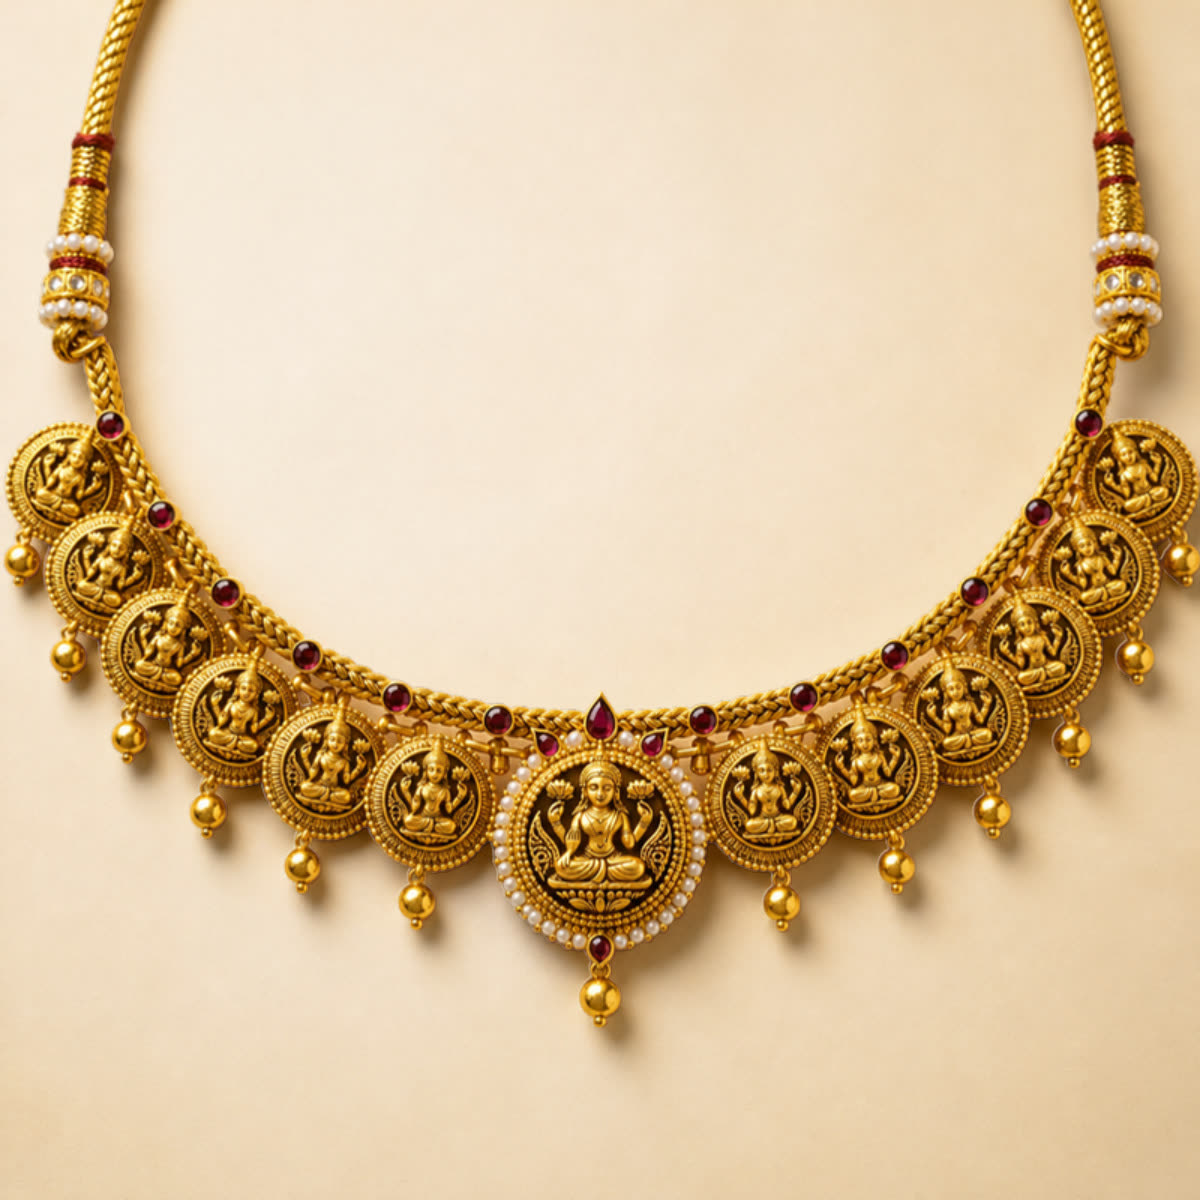
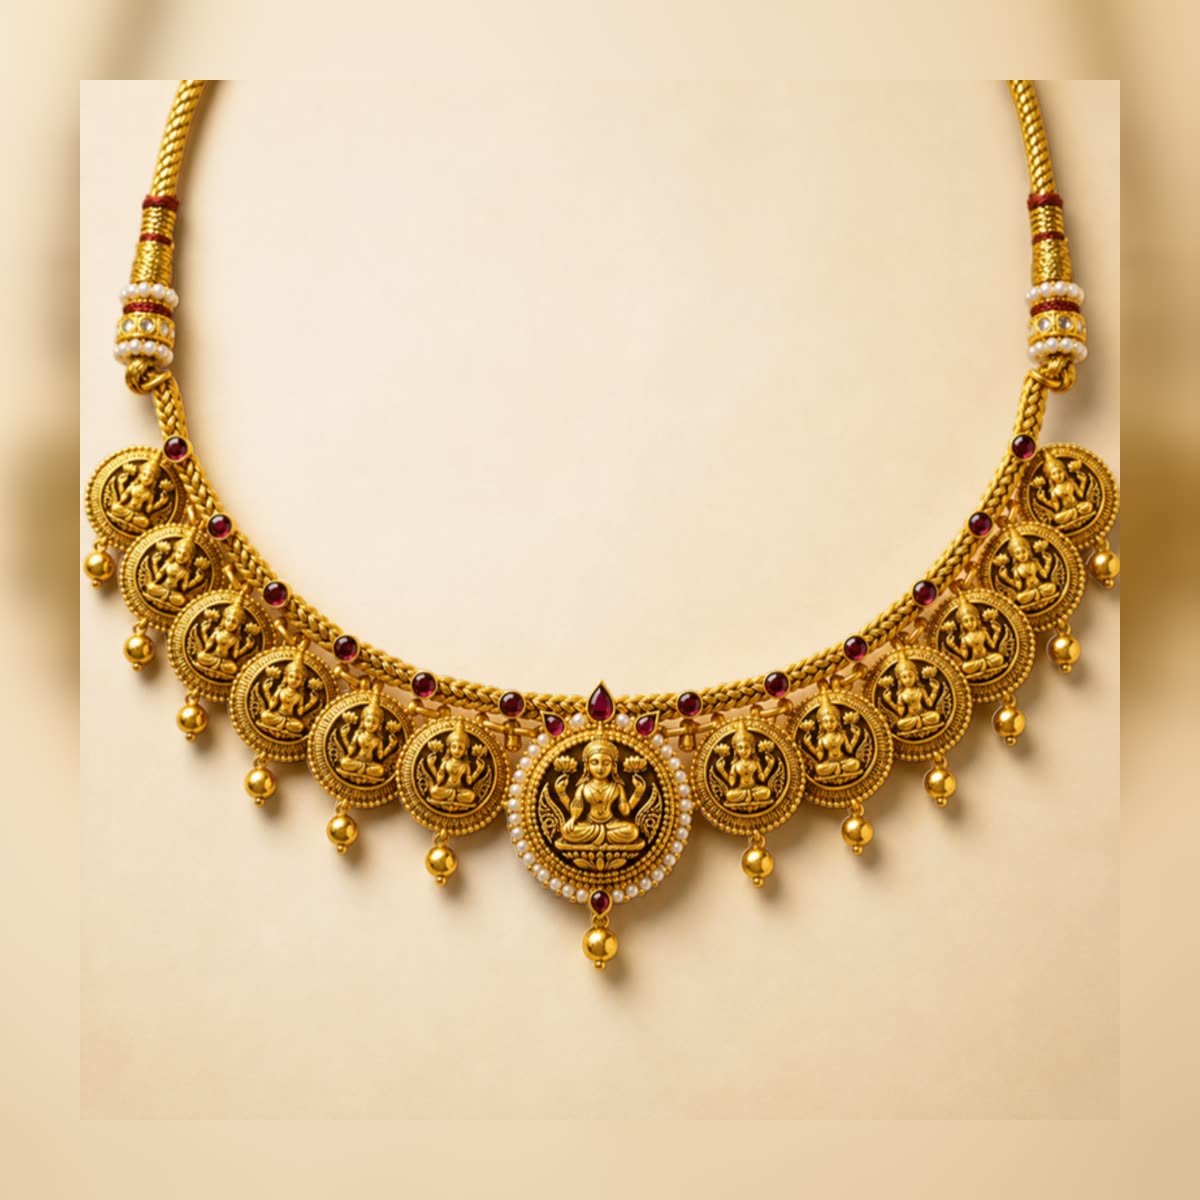
feat: Canva new-arrival product imagery

diff --git a/public/images/CREDITS.md b/public/images/CREDITS.md
@@ -10,3 +10,10 @@ Generated with Canva AI (generate-image), exported via create-design + export-de
 | banners/hero-oldgold.jpg | MAHcFPhme_4 | DAHcFDuyPsI |
 | banners/showroom.jpg | MAHcFIkf9ms | DAHcFMtb0RA |
 | banners/scheme.jpg | MAHcFKibIWE | DAHcFI9BPNQ |
+| products/mango-mala-necklace.jpg | MAHcFDP6p0U | DAHcFBkJPYA |
+| products/bridal-long-haaram.jpg | MAHcFI_4ppg | DAHcFP83vzU |
+| products/nakshi-temple-choker.jpg | MAHcFKImPxY | DAHcFBaXBc8 |
+| products/machine-cut-bangle-pair.jpg | MAHcFN8mzeg | DAHcFEcBNII |
+| products/thali-kodi-chain.jpg | MAHcFCjBW-o | DAHcFAKeNBw |
+| products/peacock-drop-earrings.jpg | MAHcFHEWk_s | DAHcFEOzkrc |
+| products/diamond-solitaire-pendant.jpg | MAHcFEdA0Bw | DAHcFNon_yY |
